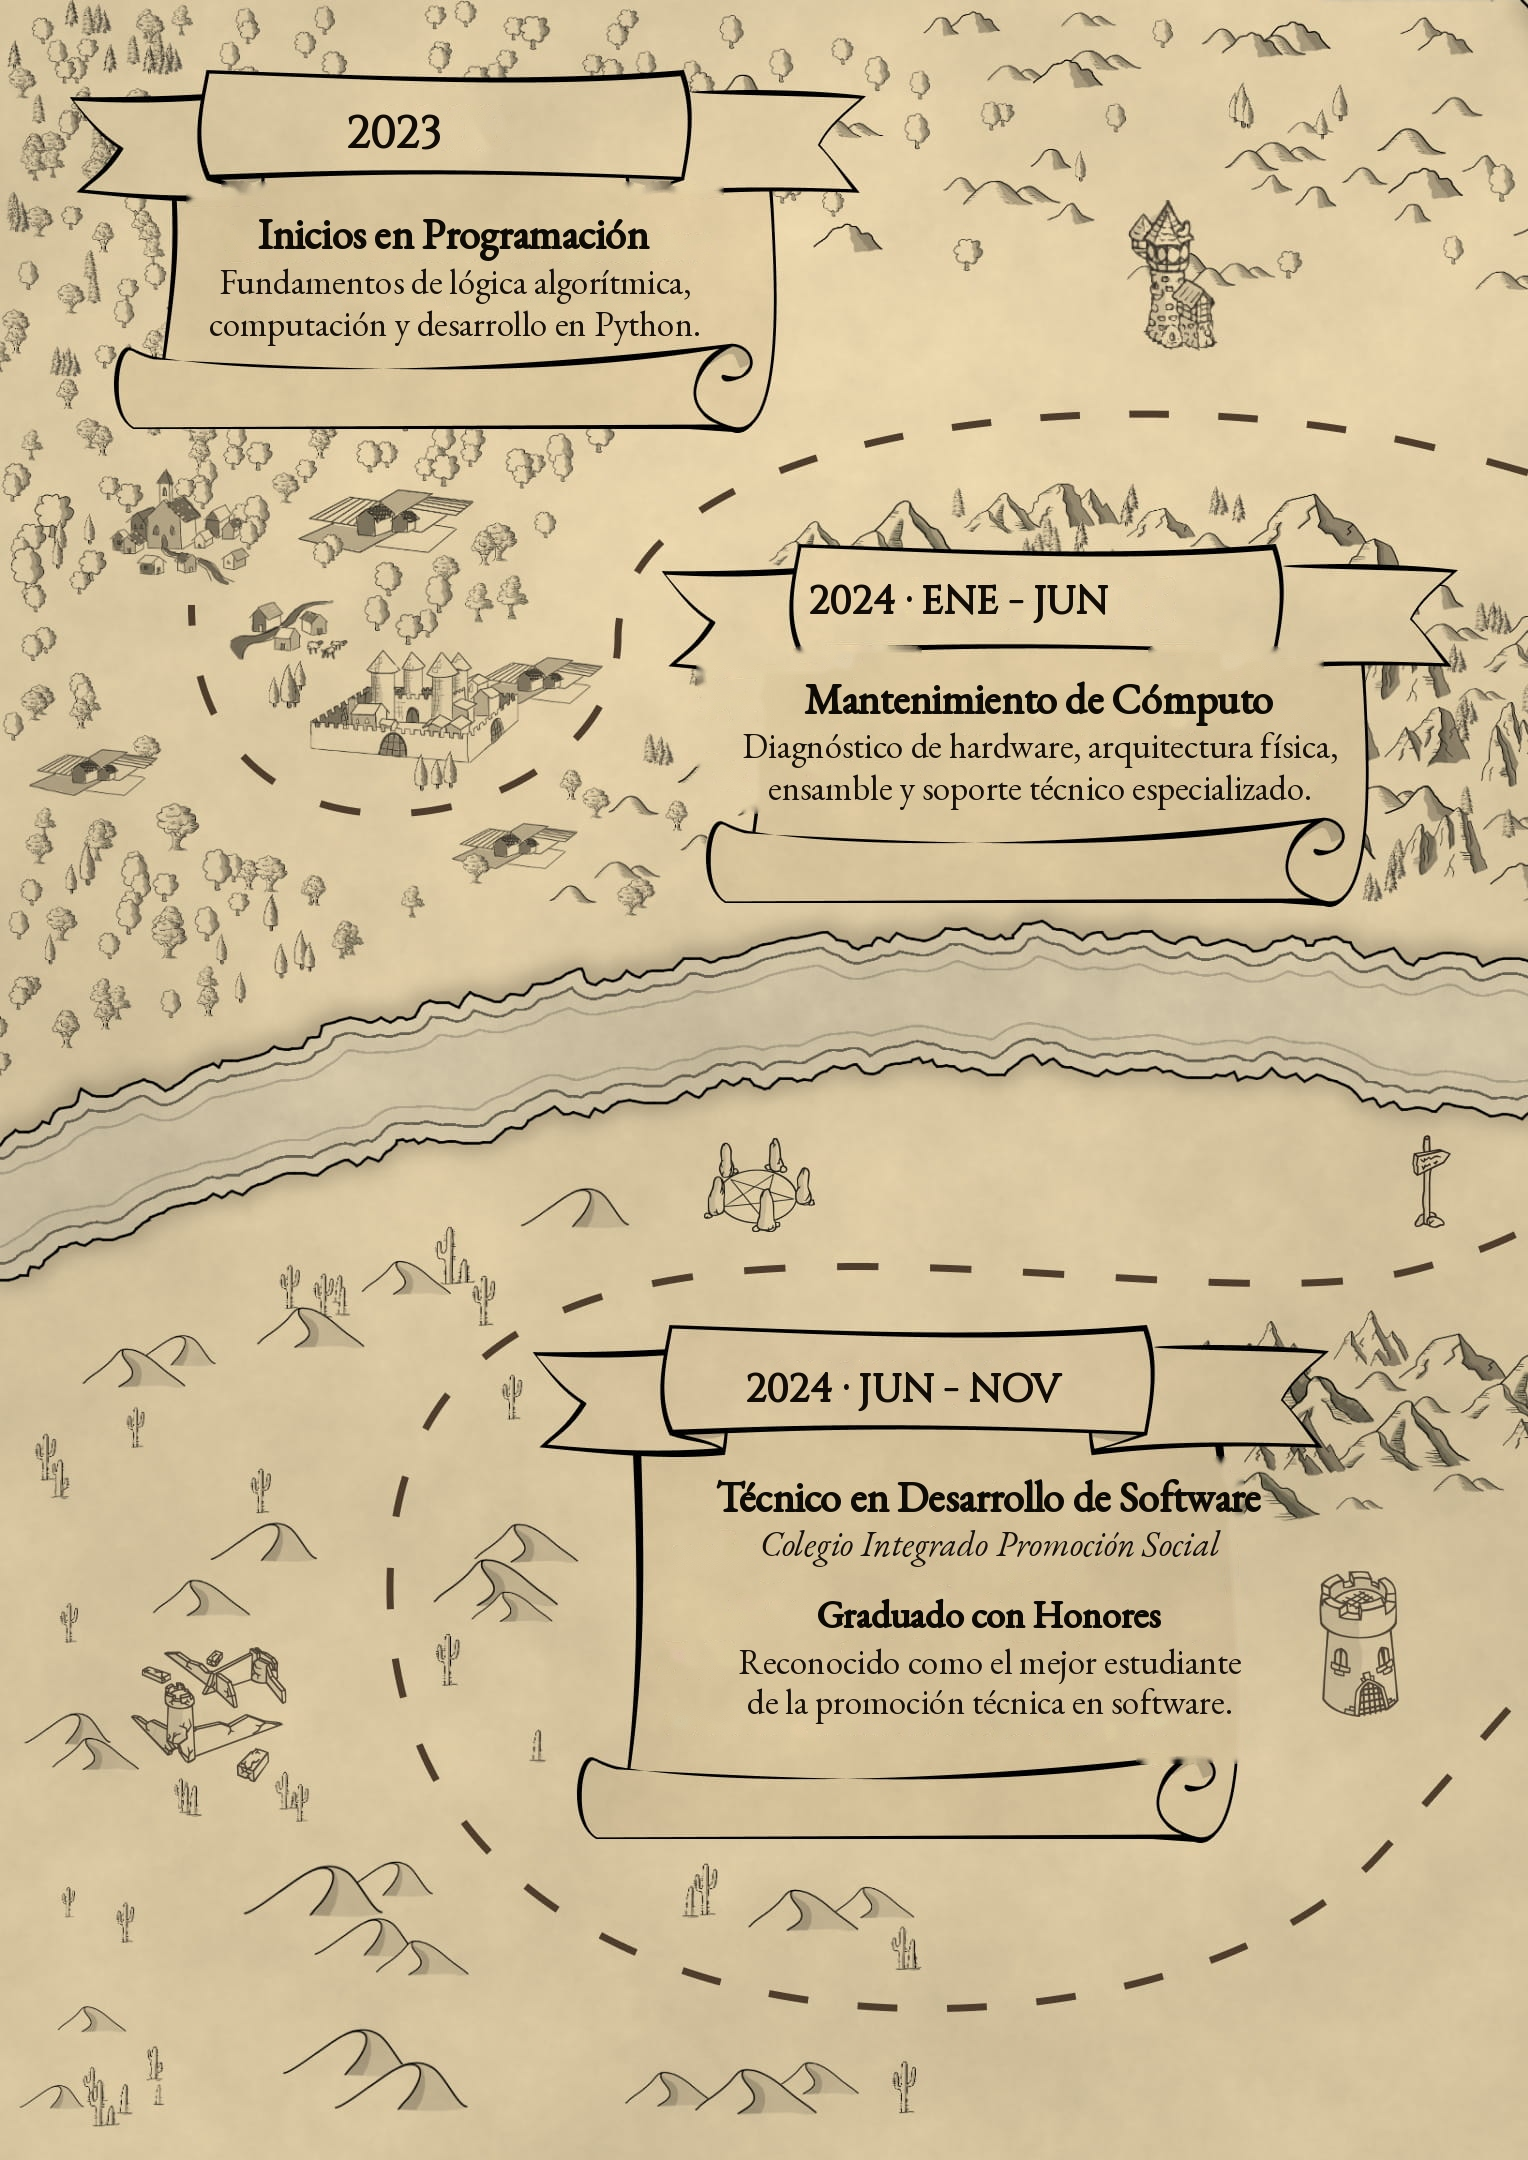
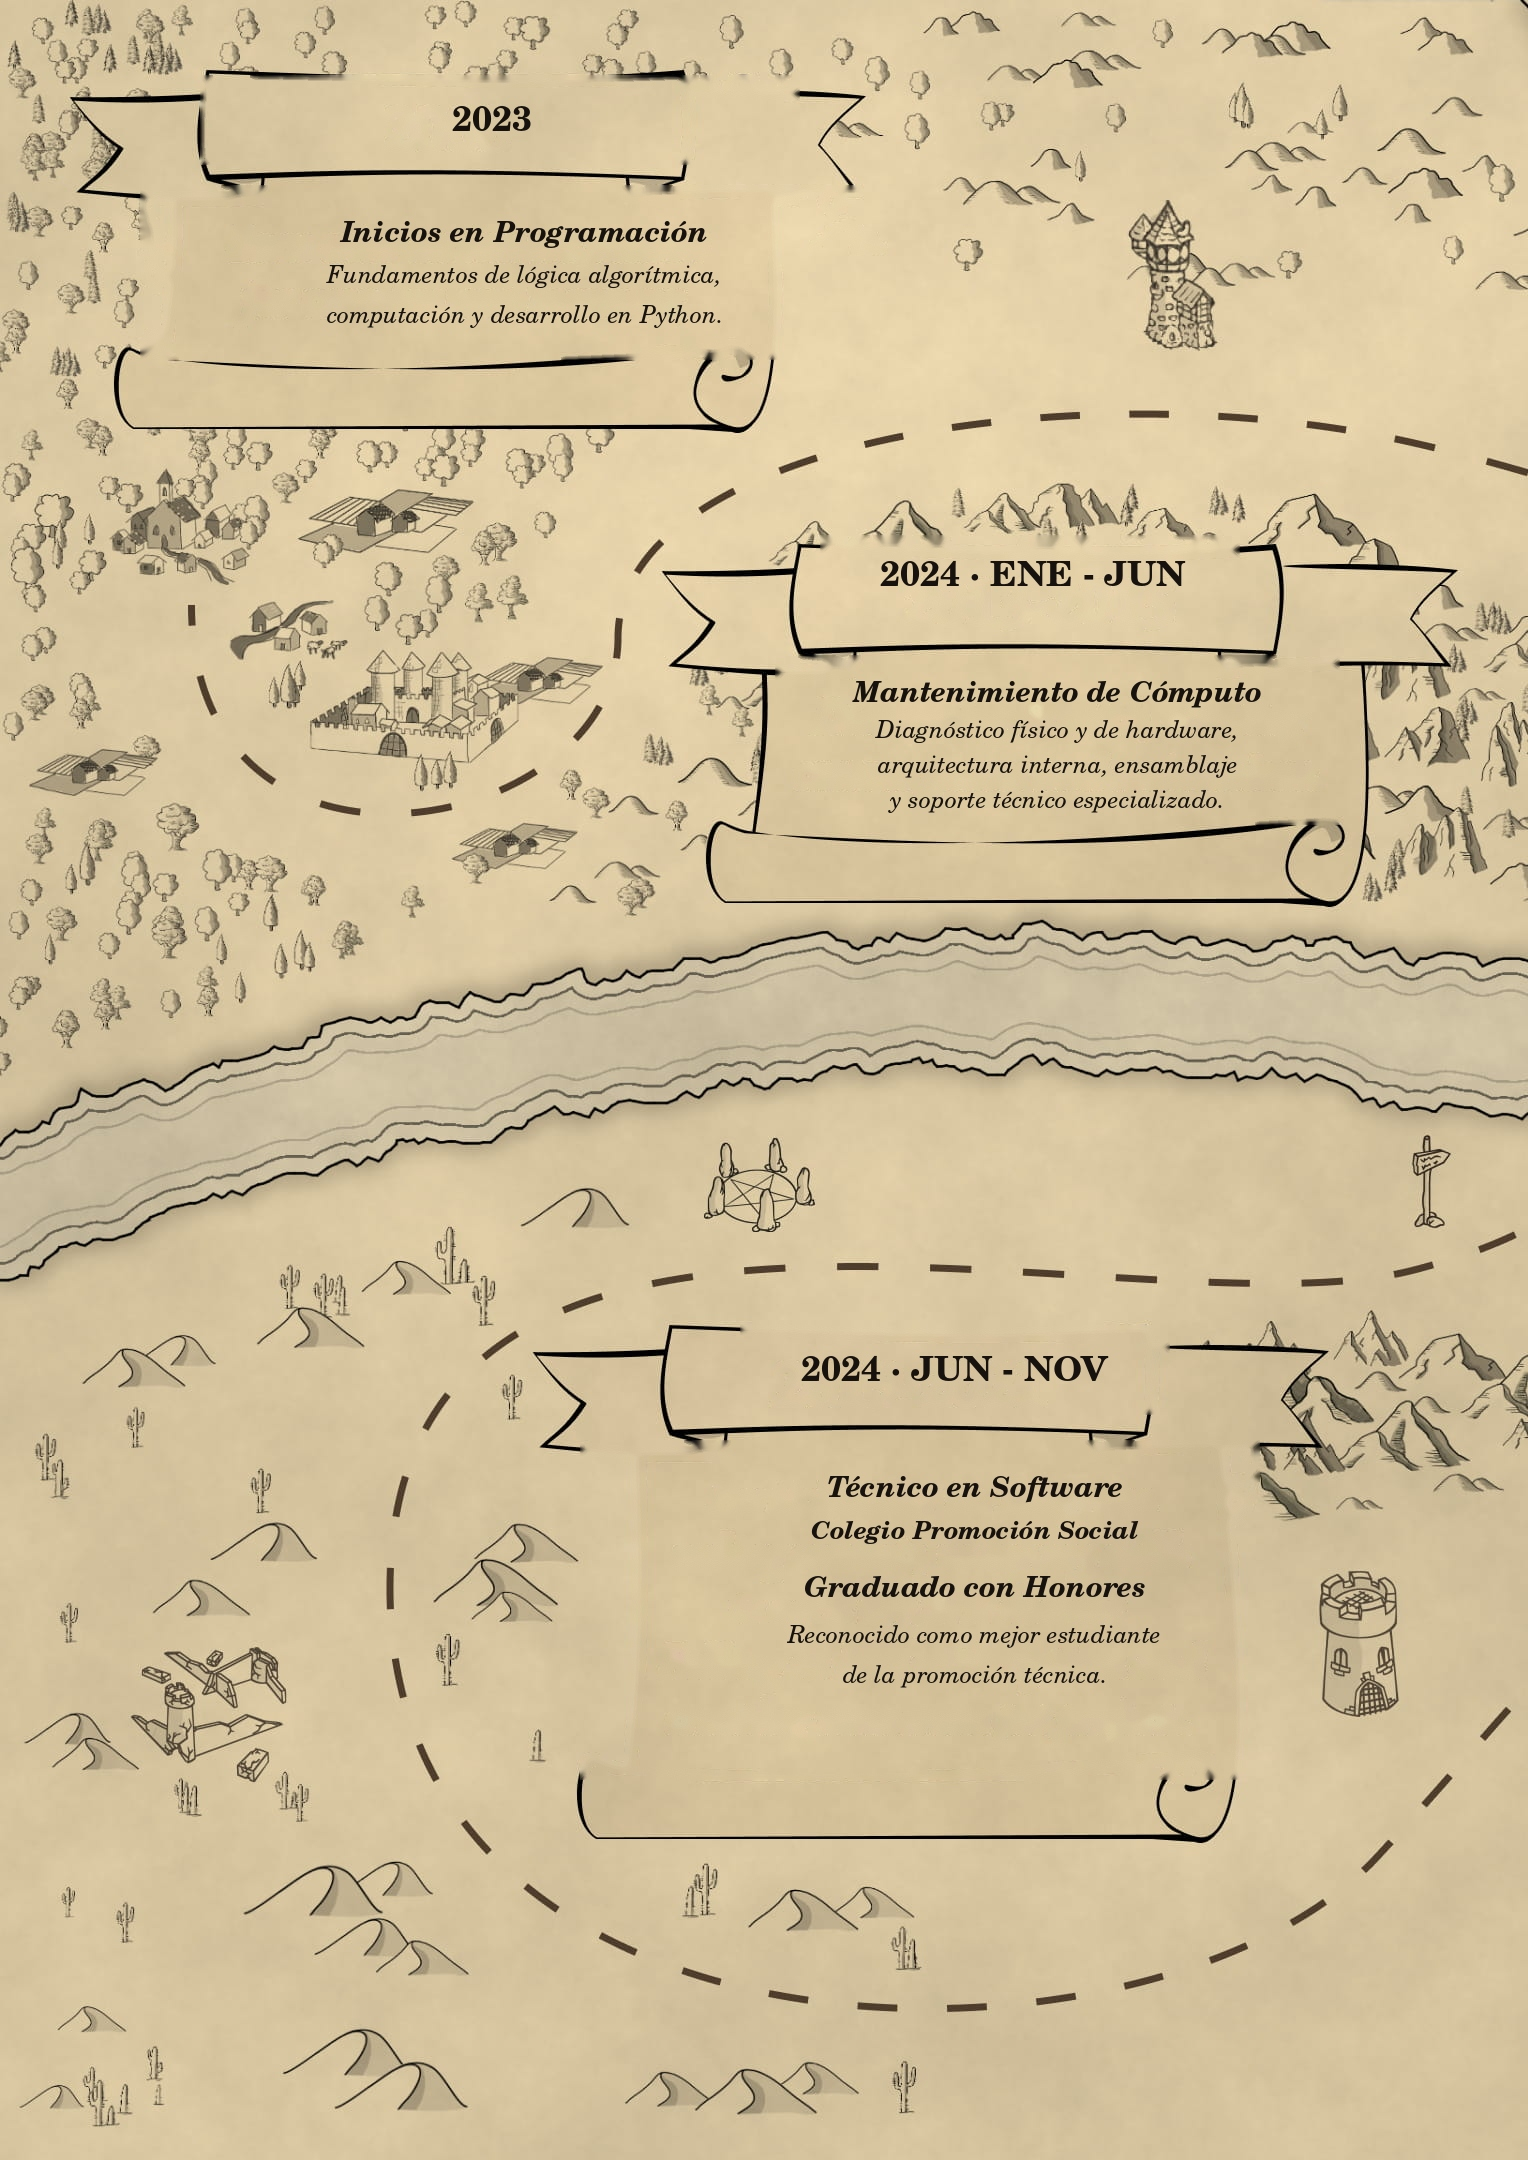
fix(capitulo-2): calibrar matemáticamente dimensiones, límites y márgenes de los pergaminos
- Mapear con precisión geométrica los límites x e y de cada listón de fechas y cuerpo de pergamino
- Corregir el centro horizontal cx de los listones y textos (anteriormente desplazados entre 50px y 100px a la izquierda)
- Garantizar márgenes de seguridad amplios (>85px) en todos los textos para eliminar desbordamientos y colisiones con los bordes
- Eliminar por completo vestigios de sombras y texto antiguo mediante inpainting refinado de alta cobertura

diff --git a/src/chapters-nav.ts b/src/chapters-nav.ts
@@ -165,7 +165,17 @@ export class ChaptersNav {
 
 		this.containerEl.appendChild(this.toggleBtn);
 		this.containerEl.appendChild(this.navEl);
-		document.body.appendChild(this.containerEl);
+
+		// Prevent double-clicks inside the chapters widget from triggering fullscreen toggle
+		this.containerEl.addEventListener("dblclick", e => {
+			e.stopPropagation();
+		});
+
+		const mountTarget =
+			this.flipbook.getContainerEl() ||
+			document.getElementById("flipbook-container") ||
+			document.body;
+		mountTarget.appendChild(this.containerEl);
 	}
 
 	private showNav() {

diff --git a/src/style.css b/src/style.css
@@ -1,6 +1,22 @@
 body {
 	padding: 0;
+	margin: 0;
 	overflow: hidden;
+	background-color: black;
+}
+
+#flipbook-container {
+	position: relative;
+	width: 100vw;
+	height: 100vh;
+	overflow: hidden;
+}
+
+#flipbook-container:fullscreen {
+	width: 100vw;
+	height: 100vh;
+	overflow: hidden;
+	background-color: black;
 }
 
 .flipbook-canvas {

diff --git a/src/flipbook.ts b/src/flipbook.ts
@@ -1375,6 +1375,10 @@ export default class Flipbook {
 		return this.progress.getValue();
 	}
 
+	public getContainerEl(): HTMLElement {
+		return this.containerEl;
+	}
+
 	public async goToPage(targetProgress: number): Promise<void> {
 		if (this.introPhase === "LOADING") return;
 
